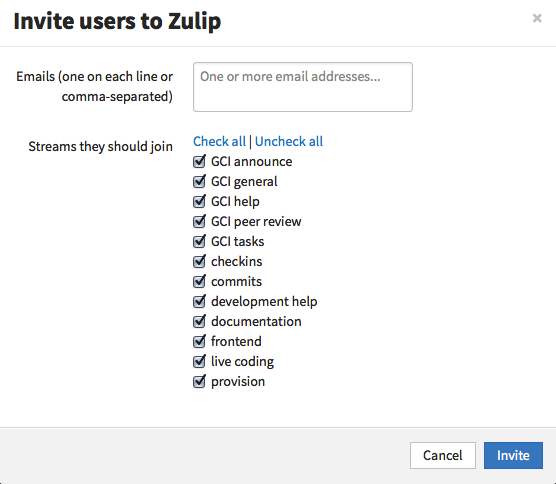
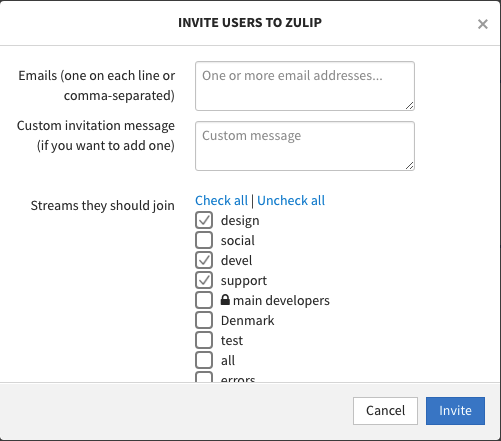
user docs: Update Invite users screenshots.

diff --git a/templates/zerver/navbar.html b/templates/zerver/navbar.html
@@ -111,7 +111,7 @@
                   </li>
                   {% endif %}
                   {% if show_invites %}
-                  <li title="{% trans %}Invite more users to Zulip.{% endtrans %}}">
+                  <li title="{% trans %}Invite more users to Zulip.{% endtrans %}">
                     <a href="#invite" role="button">
                       <i class="icon-vector-plus-sign"></i> {{ _('Invite users') }}
                     </a>